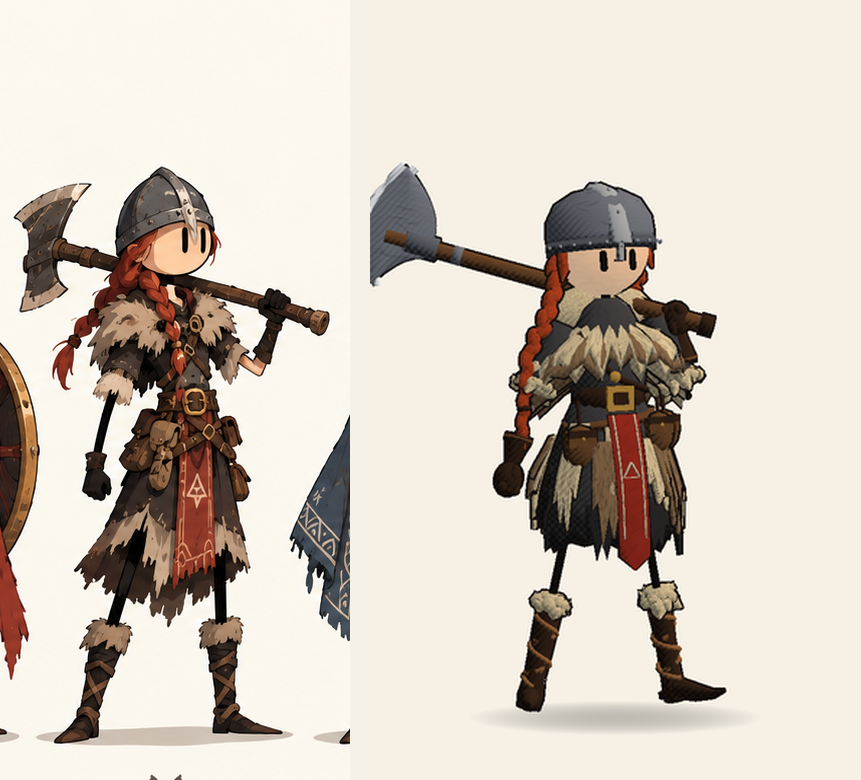
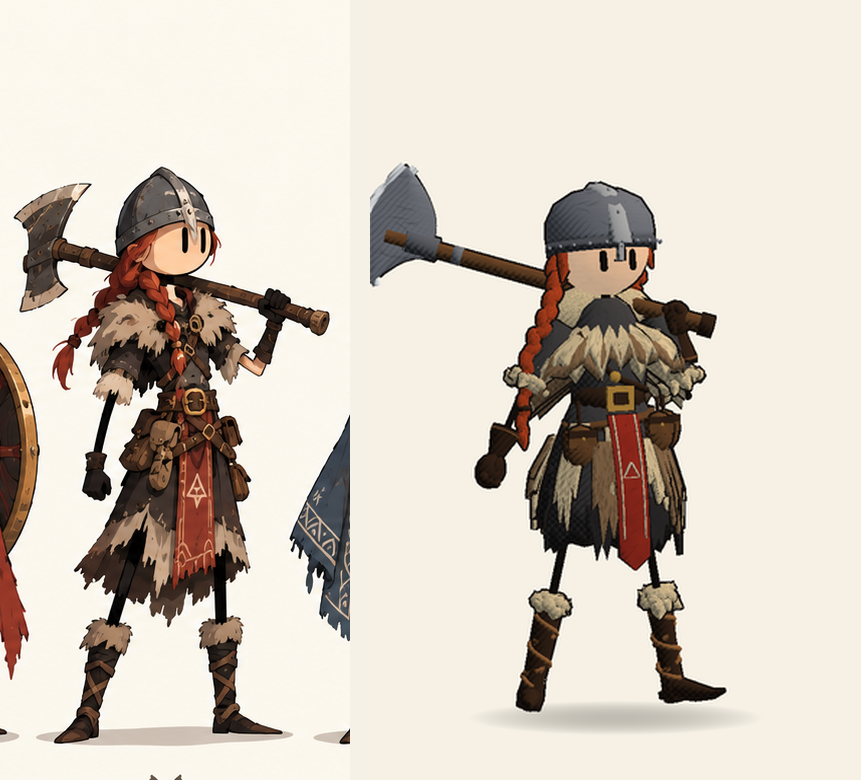
Preview: the Raider's free arm held further out from her side, so the sleeve's fur cuff shows past the braid as in the concept art
Claude-Session: https://claude.ai/code/session_01SCdejJ1UF8RUxAkkFhZXGU

Changed region(s): [[0.5436, 0.4615, 0.6643, 0.6462]]

diff --git a/tools/preview/HeroPreview.cs b/tools/preview/HeroPreview.cs
@@ -69,7 +69,7 @@ public static class HeroPreview
         carry.rot[Joints.LeftLeg] = Quaternion.Euler(0f, -22f, -13f);
         carry.rot[Joints.RightLeg] = Quaternion.Euler(0f, 24f, 12f);
         // The free arm hangs down held a little out from the side, fist by the hip, as in the concept art.
-        carry.rot[Joints.RightArm] = Quaternion.Euler(3f, 0f, 24f);
+        carry.rot[Joints.RightArm] = Quaternion.Euler(3f, 0f, 32f);
         carry.rot[Joints.RightForearm] = Quaternion.Euler(-8f, 0f, -4f);
         var walk = new Pose();
         walk.rot[Joints.LeftLeg] = Quaternion.Euler(-24f, 0f, 0f);
